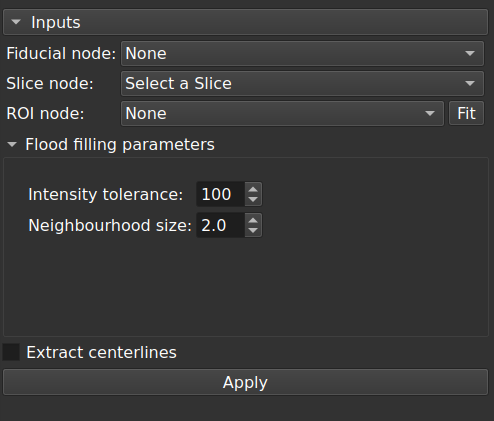
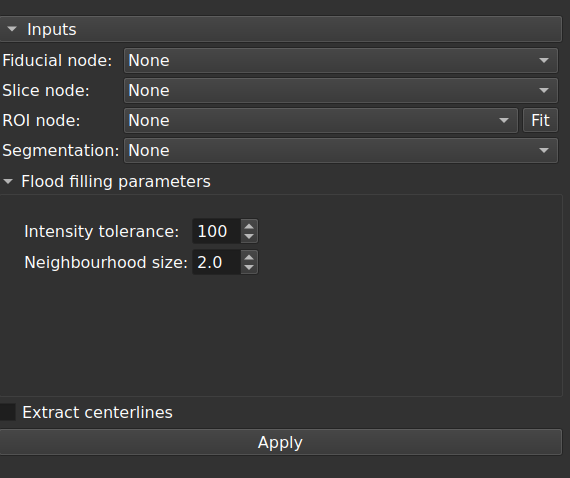
Make output nodes reusable
A unique output segmentation now persists across runs.
A segmentation node is generated if needed, or an arbitrary one may be
specified.

Each input fiducial gets a sort of 'isolation' role :

- reference output centerlines
- save the last input parameter values
- restore them when selected again
- control a segment ID
- control centerlines names

diff --git a/FiducialCenterlineExtraction/FiducialCenterlineExtraction.py b/FiducialCenterlineExtraction/FiducialCenterlineExtraction.py
@@ -105,7 +105,7 @@ class FiducialCenterlineExtractionWidget(ScriptedLoadableModuleWidget, VTKObserv
     # Make sure parameter node is initialized (needed for module reload)
     self.initializeParameterNode()
     
-    # A hidden one for the curious !
+    # A hidden one for the curious ! For developers.
     shortcut = qt.QShortcut(self.ui.FiducialCenterlineExtraction)
     shortcut.setKey(qt.QKeySequence('Meta+d'))
     shortcut.connect( 'activated()', lambda: self.removeOutputNodes())
@@ -125,6 +125,12 @@ class FiducialCenterlineExtractionWidget(ScriptedLoadableModuleWidget, VTKObserv
         self.logic.setInputFiducialNode(None)
         return
     self.logic.setInputFiducialNode(node)
+    # Update UI with previous referenced segmentation. May be changed before logic.process().
+    referencedSegmentationNode = node.GetNodeReference("OutputSegmentation")
+    if referencedSegmentationNode:
+        self.ui.outputSegmentationSelector.setCurrentNode(node.GetNodeReference("OutputSegmentation"))
+    # Reuse last known parameters
+    self.updateGUIParametersFromInputNode()
   
   def onSliceNode(self, node):
     if node is None:
@@ -268,6 +274,10 @@ class FiducialCenterlineExtractionWidget(ScriptedLoadableModuleWidget, VTKObserv
 
     self._parameterNode.EndModify(wasModified)
 
+  """
+  Let each one trace last used parameter values and output nodes.
+  These can be restored when an input fiducial is selected again.
+  """
   def UpdateInputNodeWithThisOutputNode(self, outputNode, referenceID):
     outputNodeID = ""
     if outputNode:
@@ -282,17 +292,37 @@ class FiducialCenterlineExtractionWidget(ScriptedLoadableModuleWidget, VTKObserv
     self.UpdateInputNodeWithThisOutputNode(self.logic.outputCenterlineModel, "OutputCenterlineModel")
     self.UpdateInputNodeWithThisOutputNode(self.logic.outputCenterlineCurve, "OutputCenterlineCurve")
     self.logic.inputFiducialNode.EndModify(wasModified)
-    
+
+  def UpdateInputNodeWithParameters(self):
+    if not self.logic.inputFiducialNode:
+        return
+    wasModified = self.logic.inputFiducialNode.StartModify()
+    inputROINodeID = self.logic.inputROINode.GetID()
+    self.logic.inputFiducialNode.SetNodeReferenceID("InputROINode", inputROINodeID)
+    self.logic.inputFiducialNode.SetAttribute("InputIntensityTolerance", str(self.ui.intensityToleranceSpinBox.value))
+    self.logic.inputFiducialNode.SetAttribute("NeighbourhoodSize", str(self.ui.neighbourhoodSizeDoubleSpinBox.value))
+    self.logic.inputFiducialNode.EndModify(wasModified)
+
+  # Restore parameters from input fiducial
+  def updateGUIParametersFromInputNode(self):
+    if not self.logic.inputFiducialNode:
+        return
+    self.ui.inputROISelector.setCurrentNode(self.logic.inputFiducialNode.GetNodeReference("InputROINode"))
+    intensityTolerance = self.logic.inputFiducialNode.GetAttribute("InputIntensityTolerance")
+    if intensityTolerance:
+        self.ui.intensityToleranceSpinBox.value = int(intensityTolerance)
+    neighbourhoodSize = self.logic.inputFiducialNode.GetAttribute("NeighbourhoodSize")
+    if neighbourhoodSize:
+        self.ui.neighbourhoodSizeDoubleSpinBox.value = float(neighbourhoodSize)
+  
+  # Restore output nodes in logic
   def UpdateLogicWithOutputNodes(self):
     if not self.logic.inputFiducialNode:
         return
-    self.logic.outputSegmentation = self.logic.inputFiducialNode.GetNodeReference("OutputSegmentation")
+    # Here we use a segmentation specified in UI, not the one referenced in the input fiducial.
+    self.logic.outputSegmentation = self.ui.outputSegmentationSelector.currentNode()
     self.logic.outputCenterlineModel = self.logic.inputFiducialNode.GetNodeReference("OutputCenterlineModel")
     self.logic.outputCenterlineCurve = self.logic.inputFiducialNode.GetNodeReference("OutputCenterlineCurve")
-
-  def removeOutputNodes(self):
-    self.logic.removeOutputNodes()
-    self.UpdateInputNodeWithOutputNodes()
     
   def onApplyButton(self):
     """
@@ -316,19 +346,48 @@ class FiducialCenterlineExtractionWidget(ScriptedLoadableModuleWidget, VTKObserv
         if self.logic.inputROINode is None:
             self.inform("No input ROI node specified.")
             return
-        # Restore logic output objects with saved ones. They will be replaced.
+        # Restore logic output objects relevant to the input fiducial.
         self.UpdateLogicWithOutputNodes()
         # Compute output
         self.logic.process()
-        # Update parameter node with references to new output nodes.
+        # Update input node with references to new output nodes.
         self.UpdateInputNodeWithOutputNodes()
+        # Update input node with input parameters.
+        self.UpdateInputNodeWithParameters()
+        # Update segmentation selector if it was none
+        self.ui.outputSegmentationSelector.setCurrentNode(self.logic.outputSegmentation)
 
     except Exception as e:
         slicer.util.errorDisplay("Failed to compute results: "+str(e))
         import traceback
         traceback.print_exc()
 
+  # Handy during development
+  def removeOutputNodes(self):
+    inputFiducialNode = self.ui.inputFiducialSelector.currentNode()
+    if not inputFiducialNode:
+        return
+    # Remove segment, ID is controlled.
+    segmentID = "Segment_" + inputFiducialNode.GetID()
+    segmentation = self.logic.outputSegmentation
+    segment = segmentation.GetSegmentation().GetSegment(segmentID)
+    if segment:
+        segmentation.GetSegmentation().RemoveSegment(segment)
+    # Remove child centerline curves of self.outputCenterlineCurve
+    shNode = slicer.vtkMRMLSubjectHierarchyNode.GetSubjectHierarchyNode(slicer.mrmlScene)
+    outputCurveMainId = shNode.GetItemByDataNode(self.logic.outputCenterlineCurve)
+    if (outputCurveMainId > 0) and (outputCurveMainId != shNode.GetSceneItemID()):
+        while shNode.GetNumberOfItemChildren(outputCurveMainId):
+            outputCurveChildId = shNode.GetItemByPositionUnderParent(outputCurveMainId, 0)
+            outputCurveChild = shNode.GetItemDataNode(outputCurveChildId)
+            slicer.mrmlScene.RemoveNode(outputCurveChild)
 
+    slicer.mrmlScene.RemoveNode(self.logic.outputCenterlineModel)
+    slicer.mrmlScene.RemoveNode(self.logic.outputCenterlineCurve)
+    self.logic.outputCenterlineModel = None
+    self.logic.outputCenterlineCurve = None
+    # Remove node references to centerlines
+    self.UpdateInputNodeWithOutputNodes()
 #
 # FiducialCenterlineExtractionLogic
 #
@@ -386,24 +445,7 @@ class FiducialCenterlineExtractionLogic(ScriptedLoadableModuleLogic):
 
   def setExtractCenterlines(self, value):
     self.extractCenterlines = value
-    
-  def removeOutputNodes(self):
-    # Remove child centerline curves of self.outputCenterlineCurve
-    shNode = slicer.vtkMRMLSubjectHierarchyNode.GetSubjectHierarchyNode(slicer.mrmlScene)
-    outputCurveMainId = shNode.GetItemByDataNode(self.outputCenterlineCurve)
-    if (outputCurveMainId > 0) and (outputCurveMainId != shNode.GetSceneItemID()):
-        while shNode.GetNumberOfItemChildren(outputCurveMainId):
-            outputCurveChildId = shNode.GetItemByPositionUnderParent(outputCurveMainId, 0)
-            outputCurveChild = shNode.GetItemDataNode(outputCurveChildId)
-            slicer.mrmlScene.RemoveNode(outputCurveChild)
-
-    slicer.mrmlScene.RemoveNode(self.outputSegmentation)
-    slicer.mrmlScene.RemoveNode(self.outputCenterlineModel)
-    slicer.mrmlScene.RemoveNode(self.outputCenterlineCurve)
-    self.outputSegmentation = None
-    self.outputCenterlineModel = None
-    self.outputCenterlineCurve = None
-
+  
   def setDefaultParameters(self, parameterNode):
     """
     Initialize parameter node with default settings.
@@ -430,9 +472,6 @@ class FiducialCenterlineExtractionLogic(ScriptedLoadableModuleLogic):
     import time
     startTime = time.time()
     logging.info('Processing started')
-
-    # Don't stack many segmentations. Environment may quickly become confusing. Work with only one segmentation.
-    self.removeOutputNodes()
     
     slicer.util.showStatusMessage("Segment editor setup")
     slicer.app.processEvents()
@@ -444,9 +483,14 @@ class FiducialCenterlineExtractionLogic(ScriptedLoadableModuleLogic):
     if not self.segmentEditorWidgets:
         self.segmentEditorWidgets = SegmentEditorWidgets()
         self.segmentEditorWidgets.findWidgets()
-    # Create a new segmentation. It will contain only one segment.
-    segmentation=slicer.mrmlScene.AddNewNodeByClass("vtkMRMLSegmentationNode")
-    self.outputSegmentation = segmentation
+    # Create a new segmentation if none is specified.
+    if not self.outputSegmentation:
+        segmentation=slicer.mrmlScene.AddNewNodeByClass("vtkMRMLSegmentationNode")
+        self.outputSegmentation = segmentation
+    else:
+        # Prefer a local reference for readability
+        segmentation = self.outputSegmentation
+        
     # Local direct reference to slicer.modules.SegmentEditorWidget.editor
     seWidgetEditor=self.segmentEditorWidgets.widgetEditor
 
@@ -462,11 +506,34 @@ class FiducialCenterlineExtractionLogic(ScriptedLoadableModuleLogic):
     mainWindow = slicer.util.mainWindow()
     mainWindow.moduleSelector().selectModule('SegmentEditor')
     
-    # Add a new segment
-    newSegmentQPushButton = self.segmentEditorWidgets.newSegmentQPushButton
-    newSegmentQPushButton.click()
+    #---------------------- Manage segment --------------------
+    # Remove a segment node and keep its color
+    segment = None
+    segmentColor = []
+    """
+    Control the segment ID.
+    It will be the same in all segmentations.
+    We can reach it precisely.
+    """
+    segmentID = "Segment_" + self.inputFiducialNode.GetID()
+    segment = segmentation.GetSegmentation().GetSegment(segmentID)
+    if segment:
+        segmentColor = segment.GetColor()
+        segmentation.GetSegmentation().RemoveSegment(segment)
     
-    # Use 'Flood filling' effect. Each fiducial point will be a user click.
+    # Add a new segment, with controlled ID and known color.
+    object = segmentation.GetSegmentation().AddEmptySegment(segmentID)
+    segment = segmentation.GetSegmentation().GetSegment(object)
+    # Visually identify the segment by the input fiducial name
+    segmentName = "Segment_" + self.inputFiducialNode.GetName()
+    segment.SetName(segmentName)
+    if len(segmentColor):
+        segment.SetColor(segmentColor)
+    # Select new segment
+    seWidgetEditor.setCurrentSegmentID(segmentID)
+    
+    #---------------------- Flood filling --------------------
+    # Each fiducial point will be a user click.
     # Set parameters
     seWidgetEditor.setActiveEffectByName("Flood filling")
     ffEffect = seWidgetEditor.activeEffect()
@@ -525,6 +592,7 @@ class FiducialCenterlineExtractionLogic(ScriptedLoadableModuleLogic):
         self.extractCenterlineWidgets.findWidgets()
     
     inputSurfaceComboBox = self.extractCenterlineWidgets.inputSurfaceComboBox
+    inputSegmentSelectorWidget = self.extractCenterlineWidgets.inputSegmentSelectorWidget
     endPointsMarkupsSelector = self.extractCenterlineWidgets.endPointsMarkupsSelector
     outputCenterlineModelSelector = self.extractCenterlineWidgets.outputCenterlineModelSelector
     outputCenterlineCurveSelector = self.extractCenterlineWidgets.outputCenterlineCurveSelector
@@ -533,15 +601,24 @@ class FiducialCenterlineExtractionLogic(ScriptedLoadableModuleLogic):
     
     # Set input segmentation and endpoints
     inputSurfaceComboBox.setCurrentNode(segmentation)
+    inputSegmentSelectorWidget.setCurrentSegmentID(segmentID)
     endPointsMarkupsSelector.setCurrentNode(self.inputFiducialNode)
-    # Output centerline model
-    centerlineModel = slicer.mrmlScene.AddNewNodeByClass("vtkMRMLModelNode")
+    # Output centerline model. A single node throughout.
+    centerlineModel = self.outputCenterlineModel
+    if not centerlineModel:
+        centerlineModel = slicer.mrmlScene.AddNewNodeByClass("vtkMRMLModelNode")
+        # Visually identify the segment by the input fiducial name
+        centerlineModel.SetName("Centerline_model_" + self.inputFiducialNode.GetName())
+        self.outputCenterlineModel = centerlineModel
     outputCenterlineModelSelector.setCurrentNode(centerlineModel)
-    self.outputCenterlineModel = centerlineModel
-    # Output centerline curve
-    centerlineCurve = slicer.mrmlScene.AddNewNodeByClass("vtkMRMLMarkupsCurveNode")
+    # Output centerline curve. A single node throughout.
+    centerlineCurve = self.outputCenterlineCurve
+    if not centerlineCurve:
+        centerlineCurve = slicer.mrmlScene.AddNewNodeByClass("vtkMRMLMarkupsCurveNode")
+        # Visually identify the segment by the input fiducial name
+        centerlineCurve.SetName("Centerline_curve_" + self.inputFiducialNode.GetName())
+        self.outputCenterlineCurve = centerlineCurve
     outputCenterlineCurveSelector.setCurrentNode(centerlineCurve)
-    self.outputCenterlineCurve = centerlineCurve
     """
     Don't preprocess input surface. Decimation error may crash Slicer. Quadric method for decimation is slower but more reliable.
     """
@@ -647,7 +724,7 @@ class ExtractCenterlineWidgets(ScriptedLoadableModule):
         self.applyButton = None
         self.inputSurfaceComboBox = None
         self.endPointsMarkupsSelector = None
-        self.inputSegmentSelectorWidget = None # Unused
+        self.inputSegmentSelectorWidget = None
         self.outputNetworkGroupBox = None
         self.outputTreeGroupBox = None
         self.outputCenterlineModelSelector = None

diff --git a/FiducialCenterlineExtraction/README.md b/FiducialCenterlineExtraction/README.md
@@ -22,6 +22,10 @@ The 'Flood filling' effect will be applied at each point in this slice view. The
 
 An ROI must be used to limit the segmentation. Using an ROI may save time, both during segmentation and during centerline extraction. A helper button pre-fits the ROI bounds to that of the input fiducial node. Manual resizing of the ROI is *unavoidable* to enclose the anatomical region of interest.
 
+**Output segmentation node**
+
+If no segmentation node is specified, one will be created, and it will persist across runs. An arbitrary segmentation node may also be provided. Segments will be added to the segmentation node, one for each input fiducial.
+
 **Flood filling parameters**
 
 Please refer to the manual of '[Segment editor extra effects](https://github.com/lassoan/SlicerSegmentEditorExtraEffects)' for their meaning. In brief, high values are needed for 'Intensity tolerance' with contrasted CT angiograms; increasing the value of 'Neighbourhood size' prevents leakage during segmentation.
@@ -31,8 +35,6 @@ Please refer to the manual of '[Segment editor extra effects](https://github.com
 Check this to call the 'Extract centerline' module. It is optional by default because it make take much time, depending on the input surface. It is recommended to generate a segmentation first. Once it is considered reliable, generate a centerline model and a centerline curve as a last step.
 
 **Notes**
-
-On repeat run, all output nodes are removed from scene and replaced by new ones.
 
 If the centerlines are not extracted though the segmentation is good, interaction is required. Smoothing with ‘Fill holes’ at minimal kernel size helps to create centerlines (smoothing may be faster using the 3D brush). Afterwards, work should be continued directly in ‘Extract centerline’ module obviously.
 
